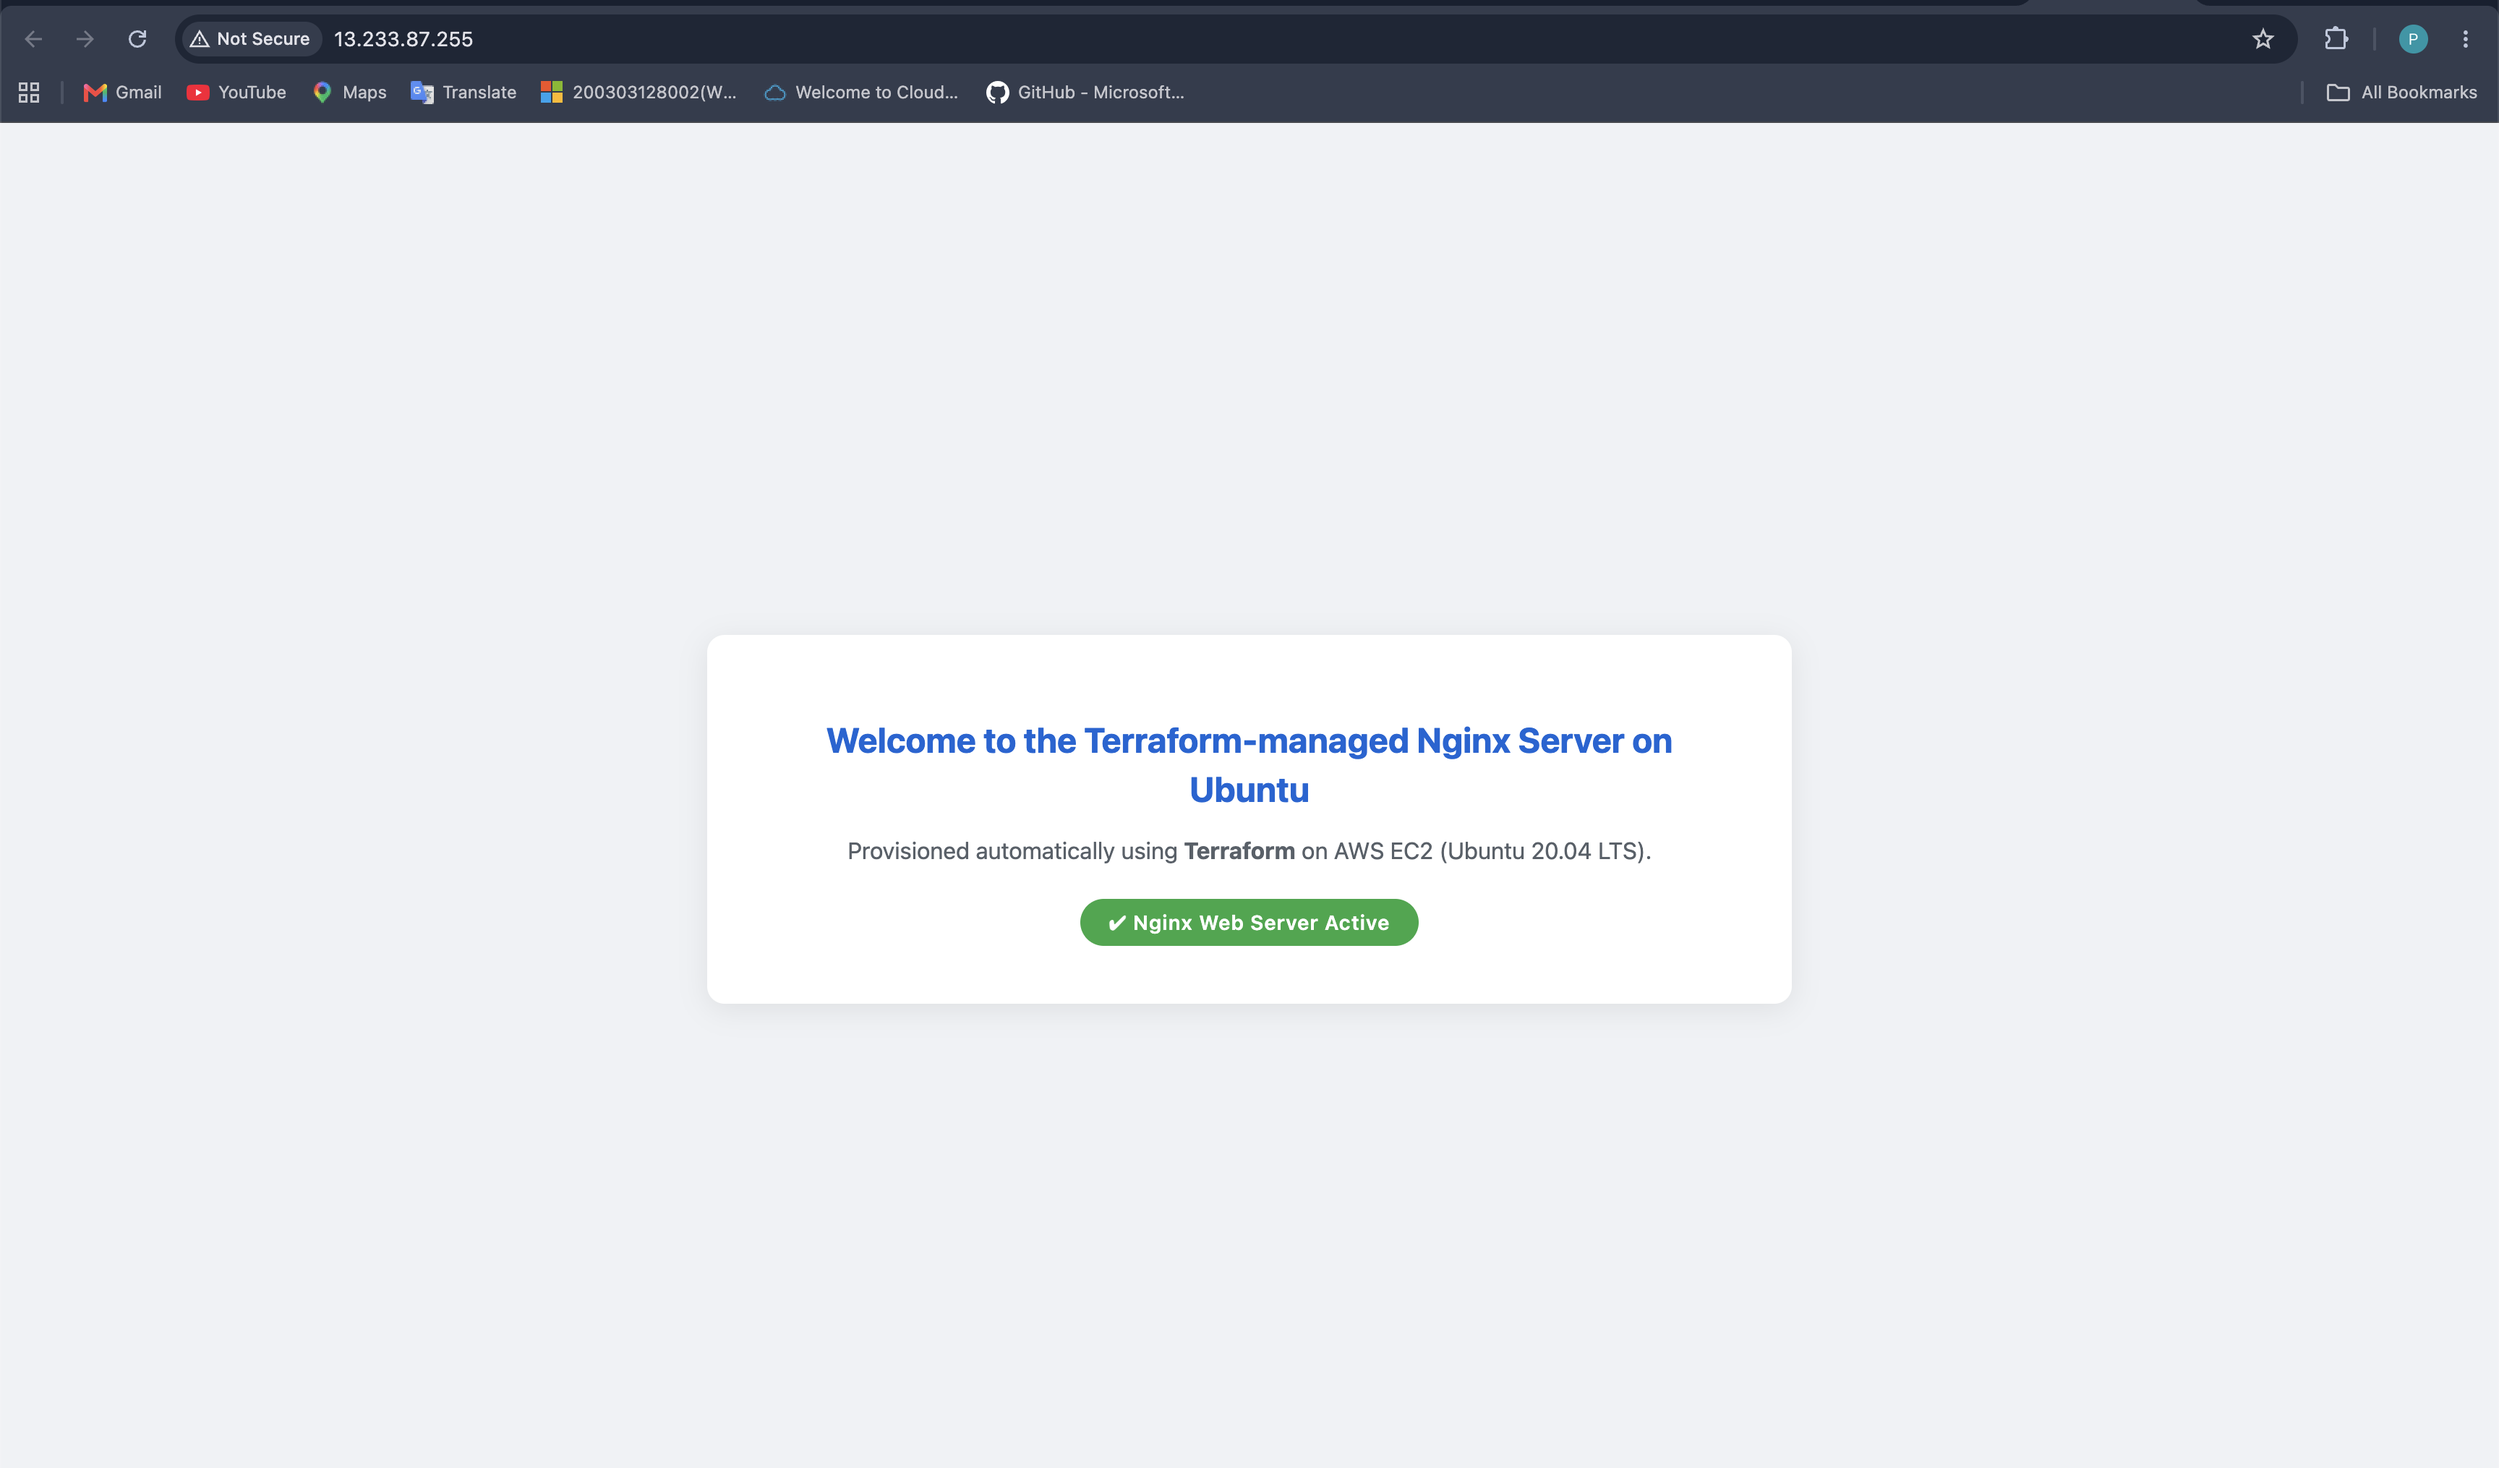
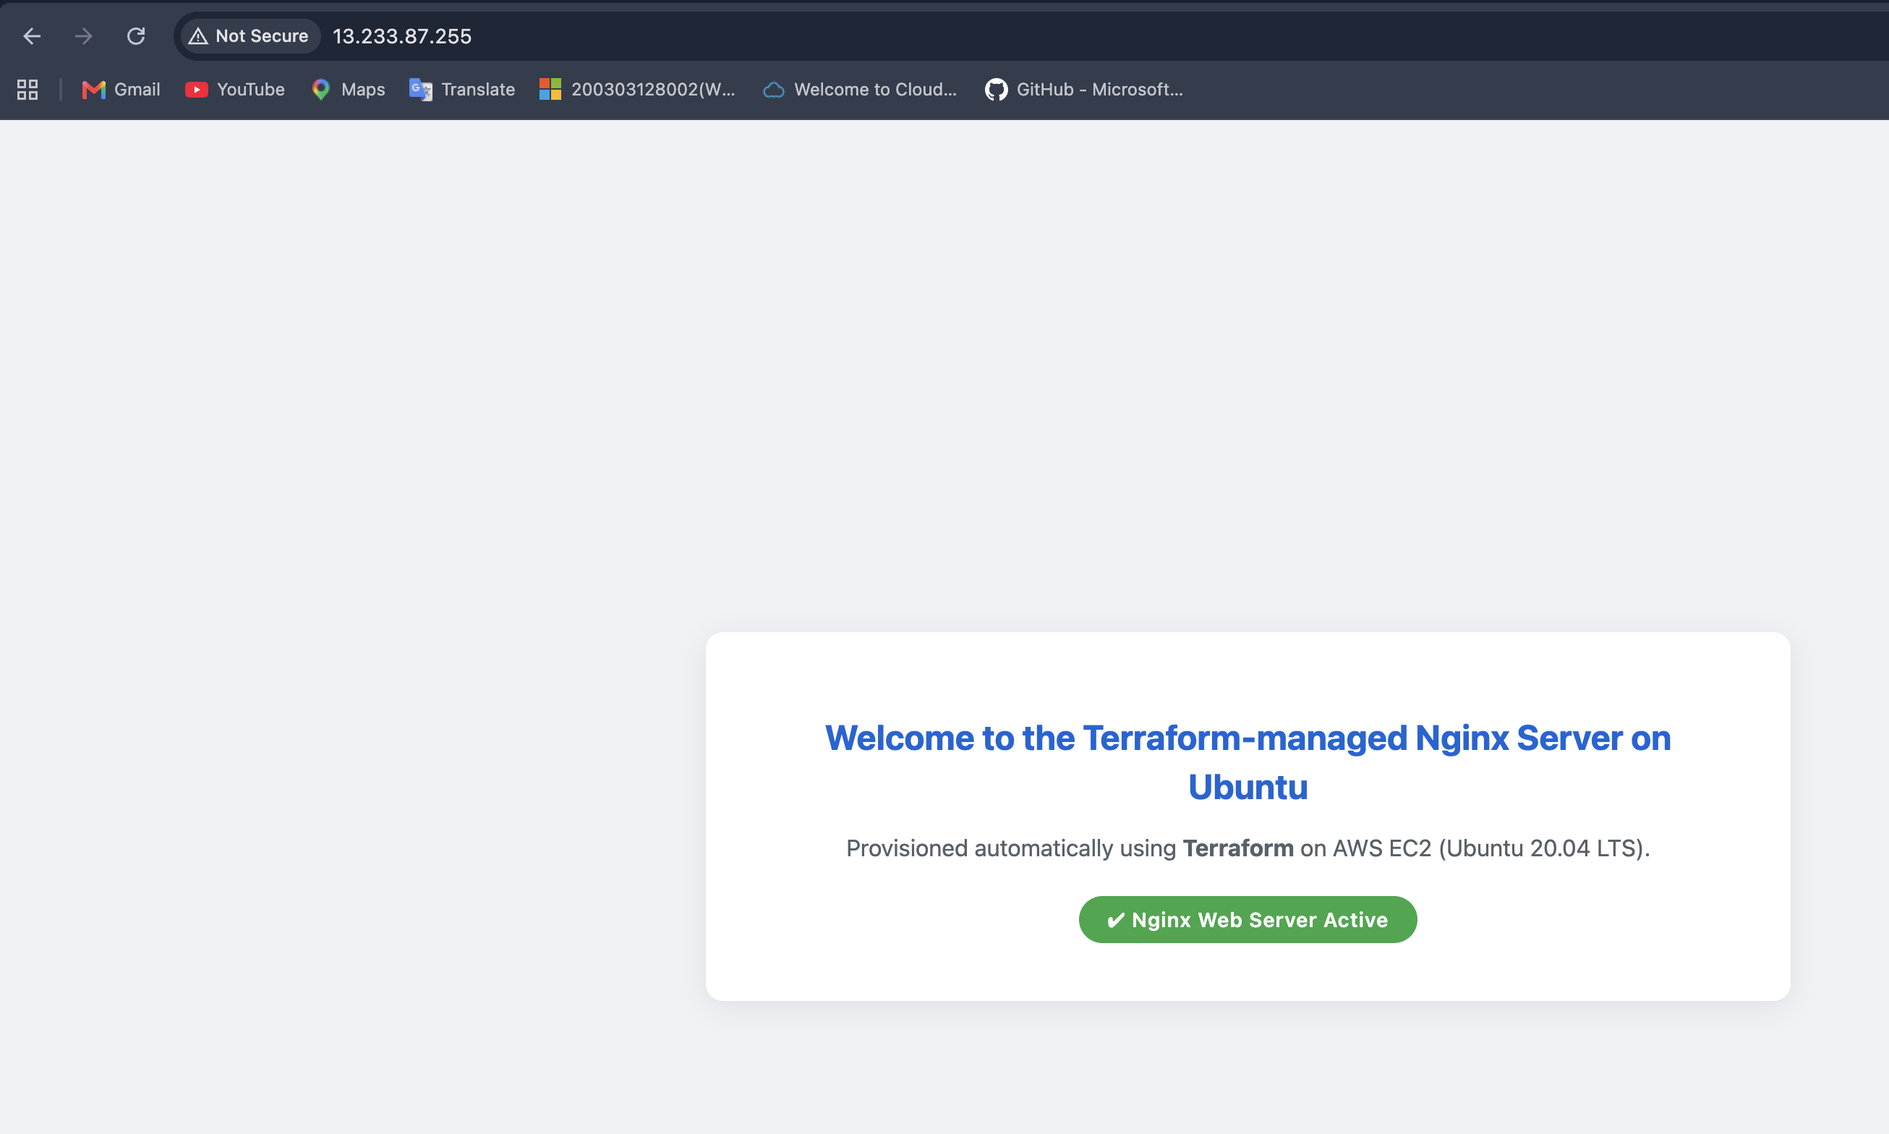
docs: embed screenshots and complete execution steps in README

diff --git a/README.md b/README.md
@@ -6,7 +6,14 @@
 [![Nginx](https://img.shields.io/badge/Nginx-Web%20Server-009639.svg?logo=nginx)](https://nginx.org/)
 
 ---
-- Title:EC2 Nginx Deployment with Terraform 
+
+## 👤 Student & Assignment Information
+
+- **Student Name:** Kaushal Patil
+- **HeroVired Student ID:** Kaushal Patil_13408
+- **Email ID:** patilkaushal89@gmail.com
+- **Assignment Title:** EC2 Nginx Deployment with Terraform (DevOps Skills Test 3 Reattempt)
+- **Repository Name:** [https://github.com/kaushalpatil205/Nginx-Deployment-through-Terraform](https://github.com/kaushalpatil205/Nginx-Deployment-through-Terraform)
 
 ---
 
@@ -15,7 +22,7 @@
 This project demonstrates Infrastructure as Code (IaC) principles using **Terraform** to provision and manage AWS cloud resources. An **AWS EC2 instance (`t2.micro`)** running **Ubuntu 20.04 LTS** is deployed inside the **AWS Default VPC**, configured with a dedicated **Security Group**, and automatically bootstrapped using cloud-init **`user_data`** to install and serve a custom **Nginx** web page.
 
 ### Key Highlights:
-- **No Unnecessary Resource Creation:** Uses the existing AWS Default VPC directly (`data "aws_vpc" "default"`). No custom VPCs, subnets, or internet gateways are created, fully aligning with task constraints.
+- **No Unnecessary Resource Creation:** Uses the existing AWS Default VPC directly (`data "aws_vpc" "default"`). No custom VPCs, subnets, or internet gateways are created, strictly adhering to assignment constraints.
 - **Automated Bootstrapping:** Installs Nginx and replaces the default index page with the required text:
   > `"Welcome to the Terraform-managed Nginx Server on Ubuntu"`
 - **Security Group Hardening:** Restricts inbound access to Port 80 (HTTP) and Port 22 (SSH).
@@ -49,7 +56,7 @@ Nginx-Deployment-through-Terraform/
 ├── variables.tf     # Configurable variables (Region, instance type, project name, key pair)
 ├── outputs.tf       # Exported outputs (Public IP, Instance ID, Web URL)
 ├── .gitignore       # Git ignore rules for Terraform states, lock files, and sensitive data
-├── screenshots/     # Verifiable step-by-step evidence screenshots
+├── screenshots/     # Verifiable step-by-step evidence screenshots (01 to 06)
 └── README.md        # Complete project documentation and execution guide
 ```
 
@@ -57,79 +64,99 @@ Nginx-Deployment-through-Terraform/
 
 ## 🛠 Brief Explanation of Resources Created
 
-1. **`data "aws_vpc" "default"`**: Queries the existing AWS Default VPC in the configured region (`ap-south-1`). This avoids creating unnecessary networking overhead.
+1. **`data "aws_vpc" "default"` & `aws_default_subnet`**: Queries and utilizes the existing AWS Default VPC in `ap-south-1` along with the default subnet for `ap-south-1a`. No separate VPC, custom subnets, or gateways are created.
 2. **`data "aws_ami" "ubuntu_20_04"`**: Dynamically queries the latest official Canonical Ubuntu 20.04 LTS AMI (`ubuntu/images/hvm-ssd/ubuntu-focal-20.04-amd64-server-*`).
 3. **`resource "aws_security_group" "nginx_sg"`**:
-   - Inbound HTTP on port `80` (public access from `0.0.0.0/0`).
+   - Inbound HTTP on port `80` (public web access from `0.0.0.0/0`).
    - Inbound SSH on port `22` (remote administration from `0.0.0.0/0`).
    - Outbound egress allowing all traffic (`-1`).
 4. **`resource "aws_instance" "nginx_server"`**:
    - Instance type: `t2.micro`.
    - OS: Ubuntu 20.04 LTS.
    - Public IP auto-assignment enabled.
-   - `user_data` script: Updates `apt`, installs `nginx`, enables systemd service, writes the custom HTML page, and restarts Nginx.
+   - `user_data` script: Updates package repository, installs Nginx, enables service, writes custom HTML page, and restarts Nginx.
 5. **`output "public_ip"`**: Prints the assigned public IPv4 address upon completion.
 
 ---
 
-## 🚀 Step-by-Step Execution Guide
+## 🚀 Execution Commands Reference
 
-### 1. Initialize Terraform
-Initializes the working directory and downloads the HashiCorp AWS provider plugin:
+All commands executed to complete the assignment:
+
 ```bash
+# 1. Initialize working directory & download AWS provider
 terraform init
-```
 
-### 2. Validate Configuration
-Checks configuration files for syntactic validity and internal consistency:
-```bash
+# 2. Validate configuration syntax
 terraform validate
-```
 
-### 3. Review Execution Plan
-Generates and previews the declarative execution plan showing resources to be provisioned:
-```bash
+# 3. Preview execution plan
 terraform plan
-```
 
-### 4. Apply Configuration (Provision Infrastructure)
-Provisions the security group and EC2 instance on AWS:
-```bash
+# 4. Provision infrastructure on AWS
 terraform apply -auto-approve
-```
-Upon completion, Terraform will output:
-```text
-Outputs:
 
-instance_id = "i-xxxxxxxxxxxxxxxxx"
-nginx_url = "http://<PUBLIC_IP>"
-public_ip = "<PUBLIC_IP>"
-```
-
-### 5. Verify the Deployed Nginx Web Server
-Wait ~1-2 minutes for cloud-init `user_data` to complete installation, then test:
-```bash
-# Terminal curl verification
+# 5. Verify Nginx response via curl
 curl http://<PUBLIC_IP>
 
-# Or open in your browser
-open http://<PUBLIC_IP>
+# 6. Teardown all resources when evaluation completes
+terraform destroy -auto-approve
 ```
 
 ---
 
-## 📸 Screenshots & Evidence
+## 📸 Step-by-Step Evidence & Screenshots
 
-Evidence screenshots verifying all phases of execution are stored in the [`screenshots/`](screenshots/) directory:
+All screenshots below are stored in the [`screenshots/`](screenshots/) directory:
 
-| # | Screenshot File | Description |
-|---|---|---|
-| **01** | `screenshots/01-terraform-init-validate.png` | Terminal output of `terraform init` and `terraform validate` passing. |
-| **02** | `screenshots/02-terraform-plan.png` | `terraform plan` execution previewing the resources to be created. |
-| **03** | `screenshots/03-terraform-apply.png` | Terminal output of `terraform apply` showing resource creation and `public_ip` output. |
-| **04** | `screenshots/04-aws-ec2-running.png` | AWS Management Console showing the running `t2.micro` EC2 instance in the default VPC. |
-| **05** | `screenshots/05-aws-security-group.png` | AWS Management Console showing the Security Group inbound rules for Port 80 and Port 22. |
-| **06** | `screenshots/06-nginx-browser-live.png` | Web browser visiting `http://<PUBLIC_IP>` displaying: *"Welcome to the Terraform-managed Nginx Server on Ubuntu"*. |
+---
+
+### 📸 Screenshot 01: Terraform Initialization & Validation
+![01-terraform-init-validate.png](screenshots/01-terraform-init-validate.png)
+
+> **Explanation:**
+> Confirms successful execution of `terraform init` and `terraform validate`. The HashiCorp AWS provider plugin was installed, backend initialized, and configuration validated with zero syntax errors.
+
+---
+
+### 📸 Screenshot 02: Terraform Execution Plan
+![02-terraform-plan.png](screenshots/02-terraform-plan.png)
+
+> **Explanation:**
+> Shows the output of `terraform plan`, previewing the declarative creation of the security group (`nginx-deployment-sg`) and the EC2 instance (`t2.micro` Ubuntu 20.04) in the default VPC.
+
+---
+
+### 📸 Screenshot 03: Terraform Apply & Public IP Output
+![03-terraform-apply.png](screenshots/03-terraform-apply.png)
+
+> **Explanation:**
+> Shows completion of `terraform apply -auto-approve`. Resources were successfully added and the outputs (`instance_id`, `nginx_url`, and `public_ip = "13.233.87.255"`) were printed to the terminal.
+
+---
+
+### 📸 Screenshot 04: AWS Management Console — Running EC2 Instance
+![04-aws-ec2-running.png](screenshots/04-aws-ec2-running.png)
+
+> **Explanation:**
+> Captured from the AWS Management Console in Mumbai (`ap-south-1`). Shows instance `nginx-deployment-ec2` (`i-00e4fa08c2705c8eb`) in **Running** state, `t2.micro`, with public IP `13.233.87.255` in the default VPC.
+
+---
+
+### 📸 Screenshot 05: AWS Management Console — Security Group Inbound Rules
+![05-aws-security-group.png](screenshots/05-aws-security-group.png)
+
+> **Explanation:**
+> Displays the inbound firewall rules for `nginx-deployment-sg`: Port 80 (HTTP) and Port 22 (SSH) open to `0.0.0.0/0`.
+
+---
+
+### 📸 Screenshot 06: Live Nginx Custom Web Page in Browser
+![06-nginx-browser-live.png](screenshots/06-nginx-browser-live.png)
+
+> **Explanation:**
+> Shows Google Chrome accessing `http://13.233.87.255`. The custom web page displays the required message:
+> **"Welcome to the Terraform-managed Nginx Server on Ubuntu"** with the active status badge.
 
 ---
 
